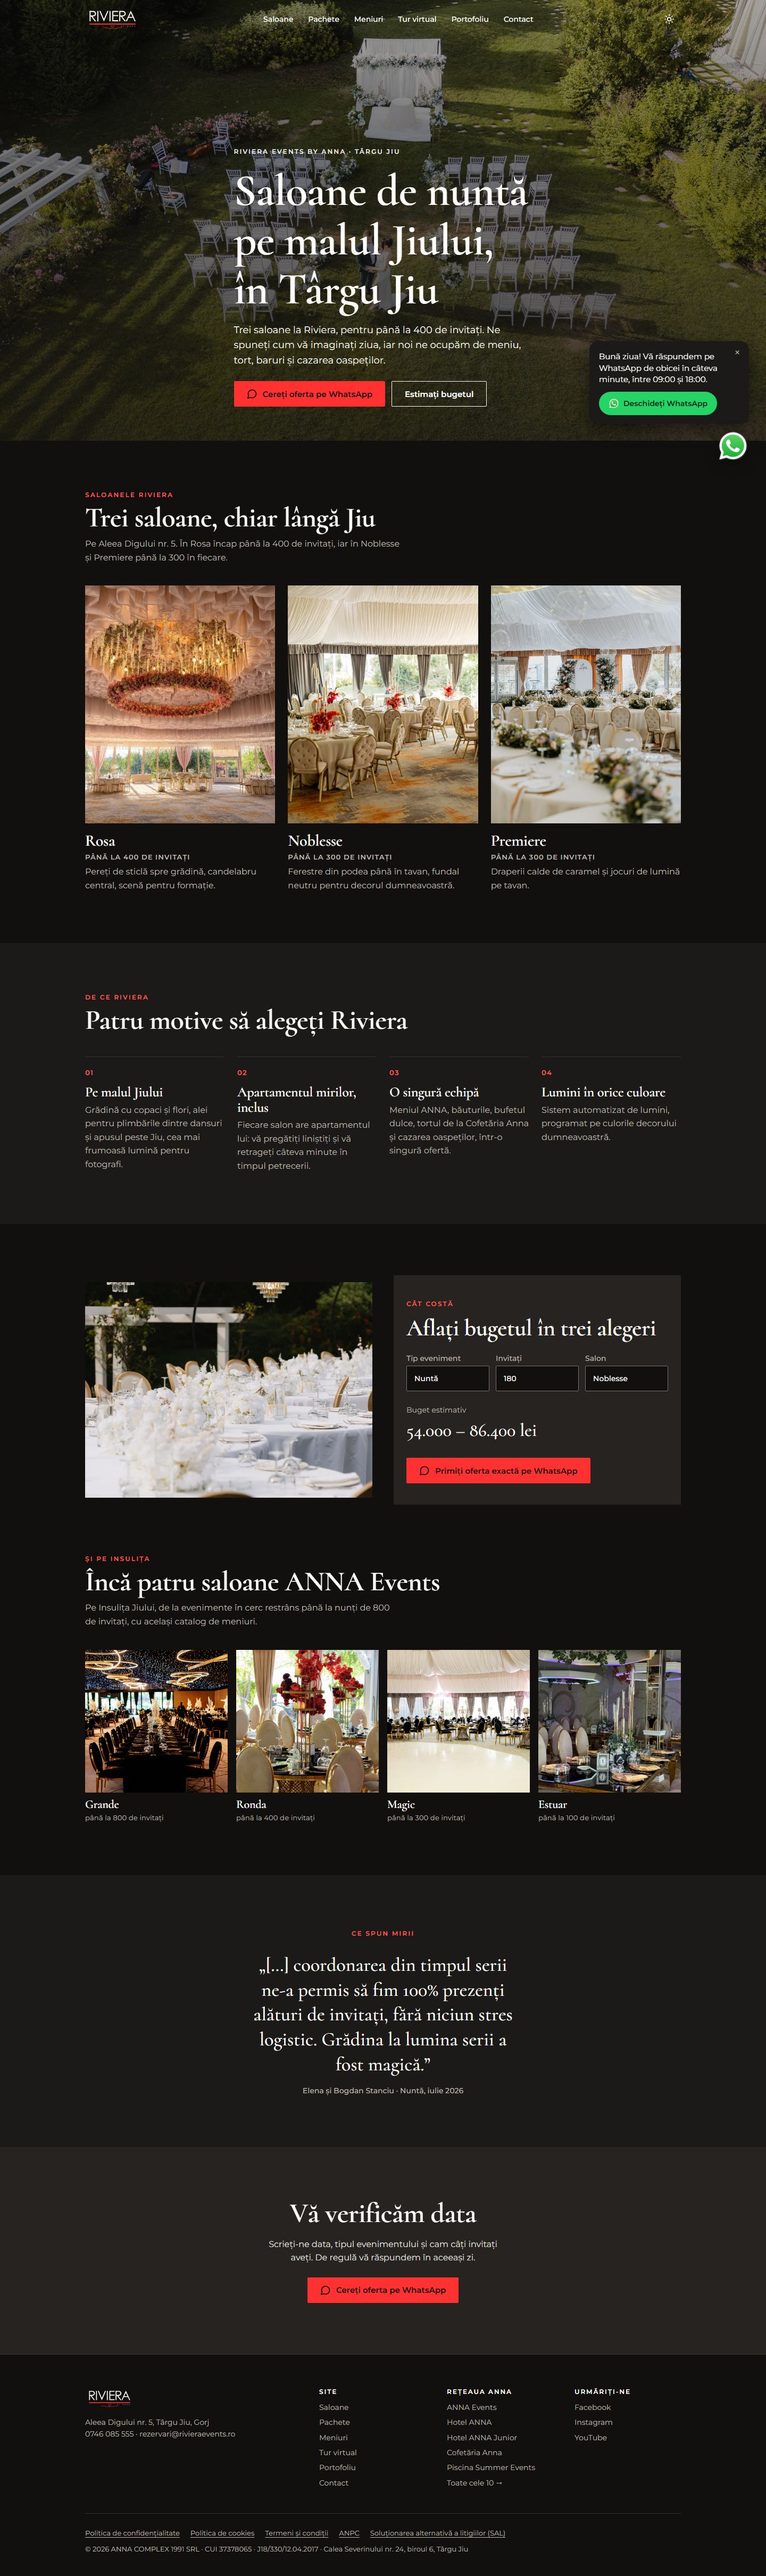
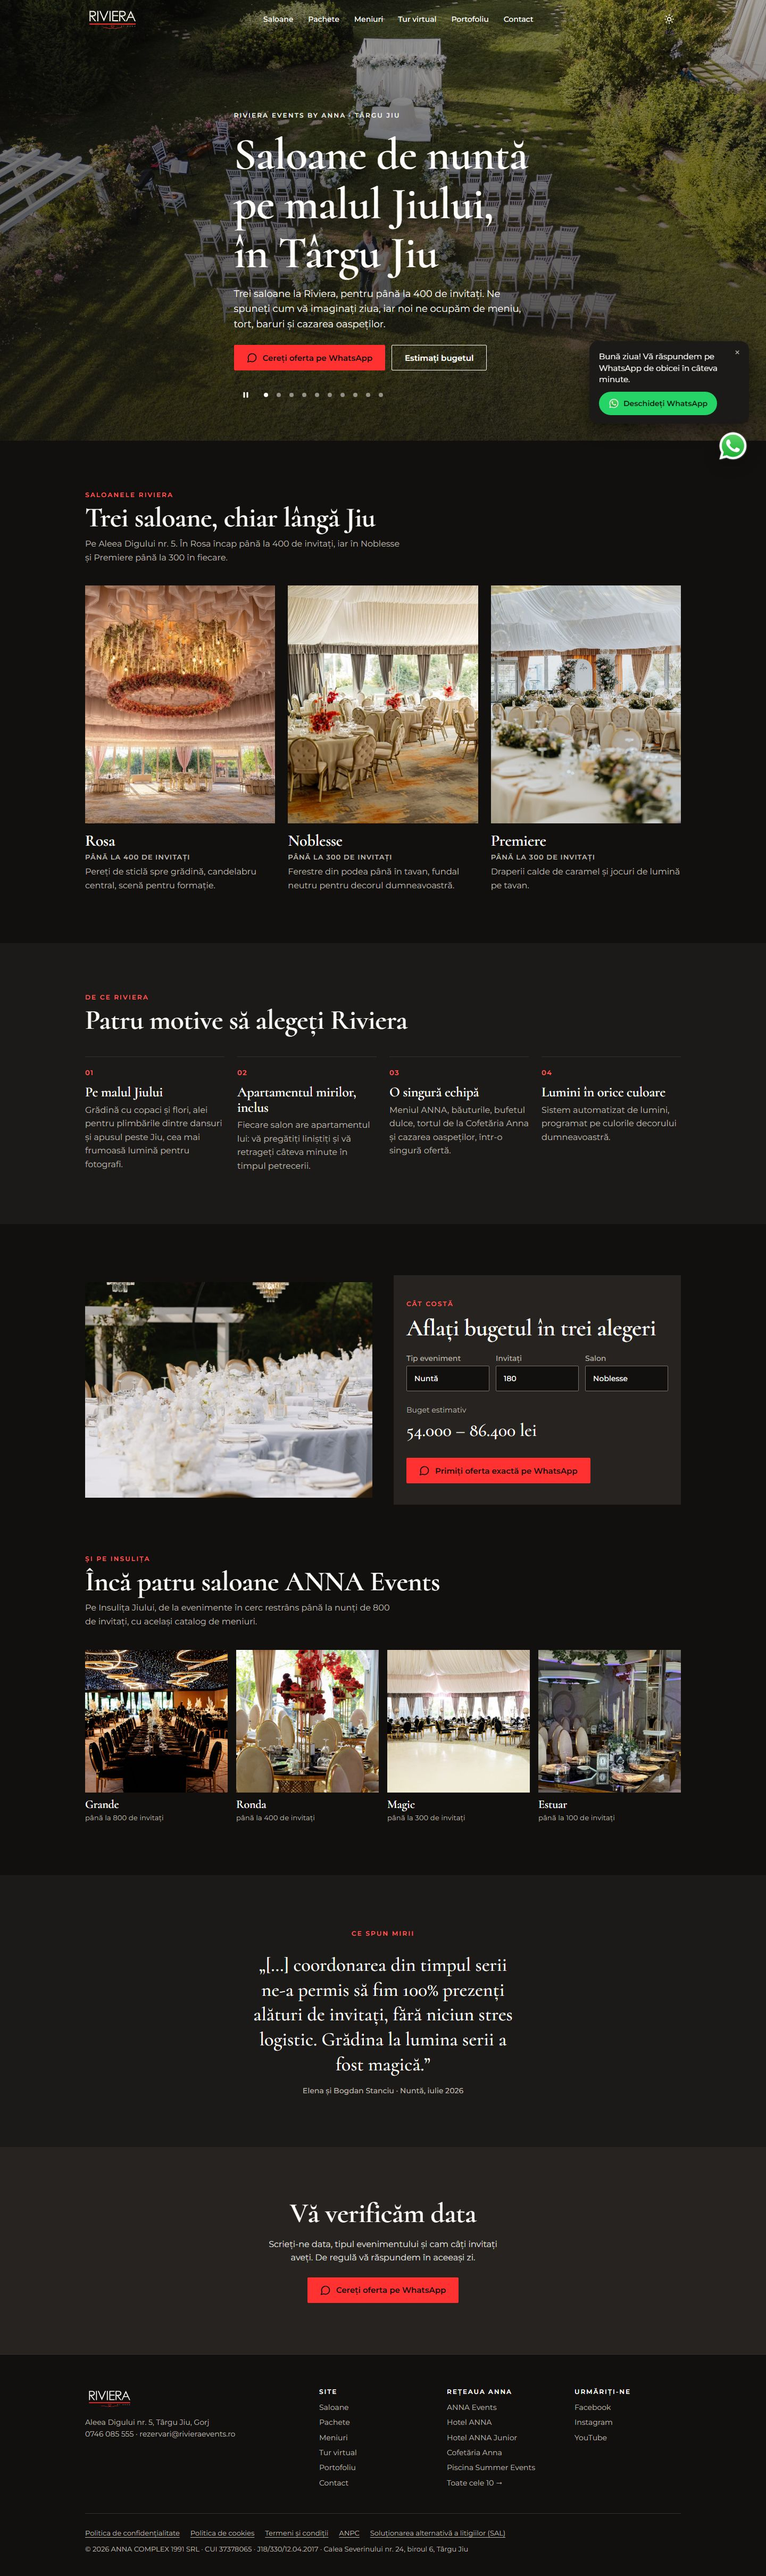
ADR-007: slideshow de 1-10 slide-uri cu video în hero, editabil din Keystatic; bula WhatsApp fără program

Changed region(s): [[0.2812, 0.0312, 0.6875, 0.156]]

diff --git a/docs/design/mockups/acasa.html b/docs/design/mockups/acasa.html
@@ -56,6 +56,12 @@ header nav{display:none;gap:28px;font:500 14px/1 var(--font-body)}
 .hero .btn{background:#FFFEFA;color:#1E1E1E}
 [data-theme="dark"] .hero .btn{background:var(--btn-bg);color:var(--btn-text)}
 .hero .btn2{border-color:var(--hero-text);color:var(--hero-text)}
+.sl-ctrl{display:flex;align-items:center;gap:4px;margin-top:var(--space-3)}
+.sl-ctrl .icon-btn{color:var(--hero-text)}
+.dots{display:flex}
+.dots button{width:24px;height:24px;display:grid;place-items:center}
+.dots button::after{content:"";width:8px;height:8px;border-radius:50%;background:var(--hero-text);opacity:.5}
+.dots button[aria-current="true"]::after{opacity:1}
 section{padding:var(--space-5) 0}
 .head{display:flex;flex-direction:column;gap:var(--space-1);margin-bottom:var(--space-4)}
 .head h2{font-size:clamp(32px,6vw,52px)}
@@ -138,6 +144,10 @@ footer .logo-dark{display:none}
     <h1>Saloane de nuntă pe malul Jiului, în Târgu Jiu</h1>
     <p>Trei saloane la Riviera, pentru până la 400 de invitați. Ne spuneți cum vă imaginați ziua, iar noi ne ocupăm de meniu, tort, baruri și cazarea oaspeților.</p>
     <div class="ctas"><a class="btn" href="#"><svg aria-hidden="true" width="20" height="20" viewBox="0 0 24 24" fill="none" stroke="currentColor" stroke-width="2" stroke-linecap="round" stroke-linejoin="round"><path d="M7.9 20A9 9 0 1 0 4 16.1L2 22Z"/></svg>Cereți oferta pe WhatsApp</a><a class="btn2" href="#">Estimați bugetul</a></div>
+    <div class="sl-ctrl" role="group" aria-label="Control slideshow">
+      <button class="icon-btn" type="button" aria-label="Pauză slideshow" aria-pressed="false"><svg aria-hidden="true" width="18" height="18" viewBox="0 0 24 24" fill="currentColor"><rect x="6" y="5" width="4" height="14" rx="1"/><rect x="14" y="5" width="4" height="14" rx="1"/></svg></button>
+      <div class="dots"><button type="button" aria-label="Slide 1 din 10" aria-current="true"></button><button type="button" aria-label="Slide 2 din 10"></button><button type="button" aria-label="Slide 3 din 10"></button><button type="button" aria-label="Slide 4 din 10"></button><button type="button" aria-label="Slide 5 din 10"></button><button type="button" aria-label="Slide 6 din 10"></button><button type="button" aria-label="Slide 7 din 10"></button><button type="button" aria-label="Slide 8 din 10"></button><button type="button" aria-label="Slide 9 din 10"></button><button type="button" aria-label="Slide 10 din 10"></button></div>
+    </div>
   </div>
 </section>
 
@@ -203,7 +213,7 @@ footer .logo-dark{display:none}
 <div class="wa">
   <aside class="wa-pop" aria-label="Mesaj WhatsApp">
     <button class="x" type="button" aria-label="Închide mesajul">×</button>
-    <p>Bună ziua! Vă răspundem pe WhatsApp de obicei în câteva minute, între 09:00 și 18:00.</p>
+    <p>Bună ziua! Vă răspundem pe WhatsApp de obicei în câteva minute.</p>
     <a class="wa-open" href="#"><img src="../../../assets/brand/whatsapp-192.png" alt="" width="20" height="20" style="width:20px;height:20px">Deschideți WhatsApp</a>
   </aside>
   <a class="wa-fab" href="#" aria-label="Scrieți-ne pe WhatsApp"><img src="../../../assets/brand/whatsapp-192.png" alt="" width="60" height="60"></a>

diff --git a/docs/design/mockups/build.py b/docs/design/mockups/build.py
@@ -82,6 +82,12 @@ header nav{{display:none;gap:28px;font:500 14px/1 var(--font-body)}}
 .hero .btn{{background:#FFFEFA;color:#1E1E1E}}
 [data-theme="dark"] .hero .btn{{background:var(--btn-bg);color:var(--btn-text)}}
 .hero .btn2{{border-color:var(--hero-text);color:var(--hero-text)}}
+.sl-ctrl{{display:flex;align-items:center;gap:4px;margin-top:var(--space-3)}}
+.sl-ctrl .icon-btn{{color:var(--hero-text)}}
+.dots{{display:flex}}
+.dots button{{width:24px;height:24px;display:grid;place-items:center}}
+.dots button::after{{content:"";width:8px;height:8px;border-radius:50%;background:var(--hero-text);opacity:.5}}
+.dots button[aria-current="true"]::after{{opacity:1}}
 section{{padding:var(--space-5) 0}}
 .head{{display:flex;flex-direction:column;gap:var(--space-1);margin-bottom:var(--space-4)}}
 .head h2{{font-size:clamp(32px,6vw,52px)}}
@@ -164,6 +170,10 @@ footer .logo-dark{{display:none}}
     <h1>Saloane de nuntă pe malul Jiului, în Târgu Jiu</h1>
     <p>Trei saloane la Riviera, pentru până la 400 de invitați. Ne spuneți cum vă imaginați ziua, iar noi ne ocupăm de meniu, tort, baruri și cazarea oaspeților.</p>
     <div class="ctas"><a class="btn" href="#">{wa}Cereți oferta pe WhatsApp</a><a class="btn2" href="#">Estimați bugetul</a></div>
+    <div class="sl-ctrl" role="group" aria-label="Control slideshow">
+      <button class="icon-btn" type="button" aria-label="Pauză slideshow" aria-pressed="false"><svg aria-hidden="true" width="18" height="18" viewBox="0 0 24 24" fill="currentColor"><rect x="6" y="5" width="4" height="14" rx="1"/><rect x="14" y="5" width="4" height="14" rx="1"/></svg></button>
+      <div class="dots">{dots}</div>
+    </div>
   </div>
 </section>
 
@@ -229,7 +239,7 @@ footer .logo-dark{{display:none}}
 <div class="wa">
   <aside class="wa-pop" aria-label="Mesaj WhatsApp">
     <button class="x" type="button" aria-label="Închide mesajul">×</button>
-    <p>Bună ziua! Vă răspundem pe WhatsApp de obicei în câteva minute, între 09:00 și 18:00.</p>
+    <p>Bună ziua! Vă răspundem pe WhatsApp de obicei în câteva minute.</p>
     <a class="wa-open" href="#"><img src="{brand}whatsapp-192.png" alt="" width="20" height="20" style="width:20px;height:20px">Deschideți WhatsApp</a>
   </aside>
   <a class="wa-fab" href="#" aria-label="Scrieți-ne pe WhatsApp"><img src="{brand}whatsapp-192.png" alt="" width="60" height="60"></a>
@@ -240,6 +250,7 @@ footer .logo-dark{{display:none}}
 carduri = "".join(f'<article class="card"><div class="ph"><img src="{IMG}{p}" alt="Salonul {n}"></div><h3>{n}</h3><p class="cap">{c}</p><p>{t}</p></article>' for n, c, p, t in SALOANE_R)
 dece = "".join(f"<li><h3>{h}</h3><p>{t}</p></li>" for h, t in DE_CE)
 ins = "".join(f'<article><div class="ph"><img src="{IMG}{p}" alt="Salonul {n}"></div><h3>{n}</h3><small>până la {c} de invitați</small></article>' for n, c, p in SALOANE_I)
-html = PAGE.format(img=IMG, brand=BRAND, wa=WA, sun=SUN, moon=MOON, carduri=carduri, dece=dece, insulita=ins)
+dots = "".join(f'<button type="button" aria-label="Slide {i} din 10"{" aria-current=\"true\"" if i == 1 else ""}></button>' for i in range(1, 11))
+html = PAGE.format(img=IMG, brand=BRAND, wa=WA, sun=SUN, moon=MOON, carduri=carduri, dece=dece, insulita=ins, dots=dots)
 (HERE / "acasa.html").write_text(html, encoding="utf-8")
 print("scris acasa.html")

diff --git a/docs/architecture/adr/007-slideshow-si-video-in-hero.md b/docs/architecture/adr/007-slideshow-si-video-in-hero.md
@@ -1,0 +1,72 @@
+# ADR-007: Slideshow de până la 10 slide-uri, cu video, în hero-ul paginii principale
+
+## Status
+**Acceptat** (cerere client, 2026-10-28).
+- **Înlocuiește parțial ADR-004**, punctul „Fără video de fundal în hero în v1”.
+- **Înlocuiește regula „Fără carusel automat”** din design-system.md §5.
+- Restul ADR-004 rămâne valabil: imaginile se afișează prin `next/image`, iar video-urile de prezentare stau pe YouTube și se încarcă la click.
+
+## Context
+- Clientul vrea ca primul ecran de pe telefon să arate până la **10 poze** prin rotație. Vrea și să poată pune un **clip video profesionist**, aflat acum în lucru.
+- Clientul vrea să schimbe singur slide-urile din panoul de administrare (Keystatic, ADR-002).
+- **Ce au arătat verificările:**
+  - `@keystatic/core` 0.6.9, publicat pe npm la 2026-08-26, verificat în declarațiile de tip din pachet la 2026-10-28:
+    - `fields.array(..., { validation: { length: { max: 10 } } })` există, deci limita de 10 se impune chiar în panou;
+    - `fields.file` acceptă orice tip de fișier, dar **nu are limită de mărime**;
+    - `fields.image` și `fields.conditional` există.
+  - Vercel Hobby, verificat 2026-10-28 ([plans/hobby](https://vercel.com/docs/plans/hobby), ultima actualizare 2026-09-14):
+    - **100 GB Fast Data Transfer pe lună**;
+    - la depășire, funcția se oprește **până la 30 de zile**;
+    - limita de 100 MB la încărcare se aplică doar deploy-urilor prin CLI ([limits](https://vercel.com/docs/limits)).
+  - GitHub respinge fișierele de peste 100 MB (limită cunoscută, **neverificată** acum). Keystatic salvează fișierele în repo, prin GitHub.
+- **Riscuri de evitat:**
+  - un video mare scade scorul de performanță pe mobil (cerința Lighthouse ≥ 90 din Faza 6) și consumă din cei 100 GB;
+  - un carusel automat fără buton de pauză încalcă WCAG 2.2.2.
+
+## Decizie
+1. **Hero-ul are între 1 și 10 slide-uri.** Fiecare slide e **imagine** sau **video**, ales într-un câmp `fields.conditional` din Keystatic.
+2. **Titlul, subtitlul și butoanele rămân fixe.** Se schimbă doar fundalul, cu tranziție lentă (crossfade de 1 s), la fiecare **6 s**. Intervalul se poate configura între 4 și 10 s.
+3. **Slide imagine:**
+   - o poză pentru desktop (orizontală) și, opțional, una pentru mobil (verticală);
+   - fără poza de mobil, se decupează poza de desktop în jurul unui **punct focal** (`object-position`).
+   - Alt text obligatoriu.
+4. **Slide video:**
+   - fișiere **MP4 (H.264)**, găzduite de noi: o variantă pentru desktop (16:9) și una pentru mobil (9:16 sau 4:5);
+   - un **poster** obligatoriu, adică o imagine afișată până se încarcă video-ul;
+   - redare fără sunet, `autoplay muted playsinline`, fără controale. Sunetul nu are rost pe fundal.
+   - **Fără YouTube pe fundal:** ar încărca scripturi și cookie-uri de la terți la deschiderea paginii, contrar ADR-005.
+5. **Buget de performanță și de trafic:**
+   - **video mobil ≤ 4 MB, video desktop ≤ 8 MB, durată 15–30 s.** Panoul nu poate limita mărimea, așa că build-ul afișează un avertisment peste aceste valori și **eșuează peste 15 MB**;
+   - primul slide se încarcă imediat: e imaginea principală a paginii, cu `priority`. Pentru video, imaginea principală e posterul;
+   - fiecare slide următor se încarcă abia când urmează. Video-ul nu se descarcă deloc dacă:
+     - vizitatorul are `prefers-reduced-motion`;
+     - are activată economia de date (`Save-Data`);
+     - are conexiune 2G (`navigator.connection.effectiveType`).
+
+     În aceste cazuri se afișează posterul.
+6. **Accesibilitate (WCAG 2.2.2, 2.1.1):**
+   - buton vizibil **Pauză/Redare** de 44×44px;
+   - indicatori de slide (puncte) accesibili din tastatură, cu `aria-label` („Slide 3 din 10”);
+   - rotația se oprește la hover, la focus și când tab-ul nu e vizibil;
+   - cu `prefers-reduced-motion`, rotația **nu pornește deloc**: rămâne primul slide, iar butonul de pauză arată starea „Redare”.
+   - Containerul are `aria-roledescription="carusel"`. Nu se anunță fiecare schimbare de slide, pentru că sunt doar fundaluri.
+7. **Găzduirea video-ului:** în repo, prin Keystatic, în `public/media/hero/`.
+   - Dacă traficul se apropie de 100 GB pe lună, video-ul se mută pe serverul annaevents.ro, unde stau deja tururile 360, sau în Vercel Blob. În conținut se schimbă doar URL-ul.
+
+## Consecințe
+**Pozitive**
+- Clientul schimbă singur ordinea și conținutul slide-urilor, fără programator.
+- Clipul profesionist poate deschide pagina, fără cookie-uri de la terți.
+
+**Negative**
+- Un slideshow cu video e mai greu decât o singură poză. Performanța rămâne ok doar dacă se respectă bugetul de la punctul 5. Se verifică cu Lighthouse în Faza 6.
+- Repo-ul crește cu fiecare video (pragul de ~1 GB din ADR-004).
+- Studiile UX arată că puțini vizitatori văd slide-urile de după primul. De aceea primul slide trebuie să fie cel mai bun, iar textul nu depinde de slide.
+
+**De urmărit lunar:** consumul de Fast Data Transfer în panoul Vercel, la Usage.
+
+## Alternative considerate
+- **O singură poză în hero** (decizia inițială): cea mai rapidă, dar clientul vrea varietate și video.
+- **Video YouTube pe fundal:** respins, din cauza cookie-urilor de la terți și a încărcării grele.
+- **Video pe Vercel Blob de la început:** acceptabil, dar mai complicat pentru editarea din Keystatic. Rămâne plan de rezervă.
+- **Carusel cu text diferit pe fiecare slide:** respins. Vizitatorul nu apucă să citească, iar mesajul principal se pierde.

diff --git a/docs/design-system.md b/docs/design-system.md
@@ -95,6 +95,19 @@ Butonul rotund WhatsApp e verde pe fundal deschis (1.97:1). E logo de brand, dec
 
 ## 4. Componente
 
+### Hero: slideshow (ADR-007)
+- Între 1 și 10 slide-uri din `content/acasa-slideshow.json`, schimbate prin crossfade de 1 s la fiecare `intervalSecunde` (implicit 6 s). **Titlul, subtitlul și butoanele nu se schimbă.**
+- Pe mobil se folosește `imagineMobil`, iar dacă lipsește, imaginea de desktop decupată după `punctFocal`.
+- **Slide video:** `<video muted autoplay loop playsinline poster>`, fără controale, fără sunet. Pe telefon se folosește versiunea pentru mobil.
+  - În locul video-ului se afișează doar posterul dacă vizitatorul are `prefers-reduced-motion`, `Save-Data` sau o conexiune 2G.
+  - Video-ul nu se descarcă până nu urmează slide-ul lui.
+- **Controale**, jos în stânga pe mobil și jos în dreapta pe desktop, deasupra gradientului:
+  - butonul **Pauză/Redare**, 44×44px, cu `aria-label` și `aria-pressed`;
+  - **puncte** de 8px, cu zonă de atingere de 24px, câte unul pe slide; punctul activ e alb plin, celelalte au opacitate 50%.
+- Rotația se oprește la hover, la focus în hero și când tab-ul e ascuns. Cu `prefers-reduced-motion` nu pornește deloc.
+- **Încărcare:** primul slide are `priority`. Următorul se preîncarcă doar după ce pagina e gata, iar restul doar când le vine rândul.
+- Bula WhatsApp nu acoperă controalele: pe mobil apare abia după ce vizitatorul a derulat dincolo de hero.
+
 ### Header
 - E transparent peste hero, cu text și logo deschise la culoare (`logo-3-transparent.svg`) în ambele teme.
 - Pe desktop meniul are 6 linkuri: Saloane, Pachete, Meniuri, Tur virtual, Portofoliu, Contact. Pe mobil e un buton-hamburger de 44×44px.
@@ -145,10 +158,10 @@ Poză 4:5, apoi numele (Cormorant 30px), capacitatea (eyebrow `--color-accent-te
 ---
 
 ## 5. Mișcare
-- Maximum **3–4 componente animate pe pagină** (Magic UI și ReactBits, Faza 5).
+- Maximum **3–4 componente animate pe pagină** (Magic UI și ReactBits, Faza 5). Pe pagina principală, slideshow-ul din hero ocupă unul din aceste locuri.
 - Apariția la derulare se face prin opacitate și o deplasare de 8–16px, în 300–400ms, `ease-out`. Hover-ul durează 150–250ms.
 - `prefers-reduced-motion: reduce`: toate animațiile se opresc, iar conținutul apare direct în starea finală.
-- Fără video de fundal în hero (ADR-004). Fără carusel automat.
+- Singurul carusel automat e slideshow-ul din hero, cu buton de pauză (ADR-007). În rest, fără carusele automate. Video-ul din hero respectă bugetul din ADR-007: mobil ≤ 4 MB, desktop ≤ 8 MB.
 
 ---
 

diff --git a/docs/content-model.md b/docs/content-model.md
@@ -137,6 +137,22 @@ Se afișează doar cele cu `acord: true`.
 
 Telefoane cu rol, WhatsApp (număr + text implicit + marcaj de sursă, vezi ADR-005), email, adrese pentru ambele complexe (cu coordonate pentru hartă și schema.org), program de vizitare, social, datele firmei.
 
+## 7b. Slideshow pagina principală: `content/acasa-slideshow.json` (ADR-007)
+
+În Keystatic e un *singleton* „Pagina principală → Slideshow”: `fields.array` cu `validation.length: { min: 1, max: 10 }`, iar fiecare element e un `fields.conditional` (imagine / video).
+
+| Câmp | Tip | Obligatoriu | Notă |
+|---|---|---|---|
+| `intervalSecunde` | număr 4–10 | da | implicit 6 |
+| `slideuri[].tip` | `imagine` / `video` | da | |
+| `slideuri[].imagine` | imagine, orizontală | da (tip imagine) | min. 1920 px lățime; se afișează prin `next/image` |
+| `slideuri[].imagineMobil` | imagine, verticală | nu | dacă lipsește, se decupează `imagine` după `punctFocal` |
+| `slideuri[].punctFocal` | text `"X% Y%"` | nu | implicit `"50% 50%"` |
+| `slideuri[].video.desktop` | fișier MP4 H.264, 16:9 | da (tip video) | ≤ 8 MB; build-ul avertizează peste prag și eșuează peste 15 MB |
+| `slideuri[].video.mobil` | fișier MP4 H.264, 9:16 sau 4:5 | nu | ≤ 4 MB; dacă lipsește, mobilul vede posterul |
+| `slideuri[].video.poster` | imagine | da (tip video) | primul cadru; e imaginea principală (LCP) dacă slide-ul e primul |
+| `slideuri[].alt` | text | da | descrie ce se vede, pentru cititoare de ecran |
+
 ## 8. Pagini: `content/pagini/<pagina>.mdx`
 
 Antet (frontmatter) obligatoriu pentru fiecare pagină:

diff --git a/docs/content-checklist.md b/docs/content-checklist.md
@@ -172,3 +172,20 @@ Rămase:
 - ✅ Logo vectorial: 4 SVG în `assets/brand/` (verificate: fără scripturi sau linkuri externe). Culori: negru #000000 / #1e1e1e, roșu #ff3131, alb cald #fffefa, gri deschis #d9d9d9.
 - ✅ Portofoliu: 9 evenimente (4 Riviera, 5 ANNA Events) în `content/portofoliu/`, fără numele mirilor. ☐ De confirmat: acordul cuplurilor din poze. ☐ Opțional: salonul și luna pentru evenimentele Riviera.
 - ✅ Galerii de exterior pentru ambele complexe în `site.json` (9 + 12 poze, cu text alternativ).
+
+## 15. Slideshow și clip video pentru hero (ADR-007, 2026-10-28)
+
+- ✅ 10 slide-uri inițiale în `content/acasa-slideshow.json` (grădină, Rosa, ceremonie, Noblesse, Premiere, cununie, cină în grădină, tort, apartamentul mirilor, miri la apus). Le schimbați din panou.
+- ☐ **Clipul profesionist.** Specificații de trimis videografului:
+
+| | Desktop | Mobil |
+|---|---|---|
+| Format | MP4, H.264, fără pistă audio | MP4, H.264, fără pistă audio |
+| Cadru | 16:9, 1920×1080 | 9:16 (1080×1920) sau 4:5 (1080×1350) |
+| Durată | 15–30 s, să se poată relua în buclă fără „săritură” | idem |
+| Mărime | **≤ 8 MB** (ținta: ~2–3 Mbps) | **≤ 4 MB** |
+| Cadre/s | 24 sau 25 | 24 sau 25 |
+| Poster | JPG din primul cadru, 1920×1080 | JPG, 1080×1920 |
+| Conținut | fără text peste imagine (titlul site-ului stă deasupra); subiectul principal în centru, nu în treimea de jos, unde stă textul | idem |
+
+- ☐ Persoanele care apar în clip trebuie să-și fi dat acordul de publicare.

diff --git a/docs/architecture/architecture.md b/docs/architecture/architecture.md
@@ -219,6 +219,7 @@ sequenceDiagram
 | [004](adr/004-imagini-si-video.md) | Imagini în repo + next/image; video pe YouTube cu încărcare la click | Acceptat, cu limitele Hobby |
 | [005](adr/005-analytics-si-cookies.md) | Doar Vercel Web Analytics (Hobby): vizite, fără conversii. WhatsApp-ul pre-completat poartă un marcaj de sursă pentru numărare manuală | Acceptat |
 | [006](adr/006-formular-web3forms.md) | Formular prin Web3Forms, din browser | Acceptat |
+| [007](adr/007-slideshow-si-video-in-hero.md) | Slideshow 1–10 slide-uri cu imagini și video în hero, editabil din Keystatic | Acceptat (înlocuiește parțial 004) |
 
 > Diagramele din §4 arată varianta inițială (Route Handler + SMTP). Pentru formular, fluxul real e browser → Web3Forms → email. Diagramele se actualizează în Faza 5, la inițializarea proiectului.
 

diff --git a/docs/architecture/adr/004-imagini-si-video.md b/docs/architecture/adr/004-imagini-si-video.md
@@ -1,7 +1,7 @@
 # ADR-004: Imagini în repo optimizate de next/image; video pe YouTube cu încărcare la click
 
 ## Status
-**Acceptat** (GATE 2, 2026-10-28), cu o completare pentru planul Hobby:
+**Acceptat** (GATE 2, 2026-10-28), cu o completare pentru planul Hobby. **Punctul „Fără video de fundal în hero” e înlocuit de [ADR-007](007-slideshow-si-video-in-hero.md)** (slideshow cu video, 2026-10-28).
 
 - **Limita Hobby:** 5.000 de transformări pe lună. Peste limită, **imaginile noi returnează eroarea 402** și nu se facturează ([docs](https://vercel.com/docs/image-optimization/limits-and-pricing), verificat 2026-10-28).
 - **Estimare:** ~250 de imagini × 4 dimensiuni × 2 formate = ~2.000 de transformări la lansare `[estimare]`. Intră în limită.
